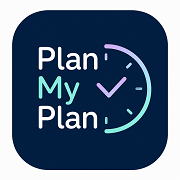
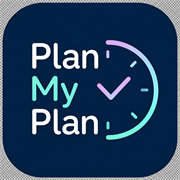
feat: apply Plan My Plan brand assets

diff --git a/src/ui/auth/auth-screen.tsx b/src/ui/auth/auth-screen.tsx
@@ -2,6 +2,7 @@ import { Ionicons } from '@expo/vector-icons';
 import { useState } from 'react';
 import {
   KeyboardAvoidingView,
+  Image,
   Platform,
   Pressable,
   ScrollView,
@@ -57,9 +58,12 @@ export function AuthScreen({
           keyboardShouldPersistTaps="handled"
           contentInsetAdjustmentBehavior="automatic">
           <View style={styles.card}>
-            <View style={styles.brandMark} accessibilityElementsHidden importantForAccessibility="no-hide-descendants">
-              <Text style={styles.brandMarkText}>P</Text>
-            </View>
+            <Image
+              accessibilityLabel="Логотип Plan My Plan"
+              resizeMode="contain"
+              source={require('../../../assets/plan-my-plan-auth-logo.png')}
+              style={styles.brandLogo}
+            />
             <Text accessibilityRole="header" style={styles.title}>Plan My Plan</Text>
             <Text style={styles.subtitle}>
               {isRegistration
@@ -199,20 +203,10 @@ const styles = StyleSheet.create({
     maxWidth: 440,
     gap: designTokens.space[12],
   },
-  brandMark: {
-    alignItems: 'center',
-    justifyContent: 'center',
-    width: 52,
-    height: 52,
-    borderRadius: designTokens.radius.card,
-    backgroundColor: designTokens.color.primary,
+  brandLogo: {
+    height: 88,
     marginBottom: designTokens.space[8],
-  },
-  brandMarkText: {
-    color: designTokens.color.text.inverse,
-    fontSize: 28,
-    lineHeight: 34,
-    fontWeight: designTokens.typography.weight.bold,
+    width: 88,
   },
   title: {
     color: designTokens.color.text.primary,

diff --git a/__tests__/ui/auth-screen.test.tsx b/__tests__/ui/auth-screen.test.tsx
@@ -19,6 +19,13 @@ describe('AuthScreen', () => {
     expect(view.getByLabelText('Забыли пароль?')).toBeOnTheScreen();
   });
 
+  test('uses the Plan My Plan artwork instead of a text brand mark', async () => {
+    const view = await render(<AuthScreen />);
+
+    expect(view.getByLabelText('Логотип Plan My Plan')).toBeOnTheScreen();
+    expect(view.queryByText('P')).toBeNull();
+  });
+
   test('does not expose the guest entry action in the default product mode', async () => {
     const view = await render(<AuthScreen onContinueWithoutAccount={jest.fn()} />);
 

diff --git a/__tests__/pwa-installation-assets.test.ts b/__tests__/pwa-installation-assets.test.ts
@@ -10,8 +10,8 @@ describe('PWA installation assets', () => {
       web?: { favicon?: string; output?: string };
     };
 
-    expect(expo.icon).toBe('./assets/plan-my-plan-512.png');
-    expect(expo.ios?.icon).toBe('./assets/plan-my-plan-512.png');
+    expect(expo.icon).toBe('./assets/plan-my-plan-app-icon.png');
+    expect(expo.ios?.icon).toBe('./assets/plan-my-plan-app-icon.png');
     expect(expo.web?.favicon).toBe('./public/favicon.png');
     expect(expo.web?.output).toBe('static');
 

diff --git a/src/ui/primitives/app-boot-screen.tsx b/src/ui/primitives/app-boot-screen.tsx
@@ -18,7 +18,7 @@ export function AppBootScreen({ message, progress }: AppBootScreenProps) {
     <View style={styles.screen}>
       <Image
         accessibilityLabel="Логотип Plan My Plan"
-        source={require('../../../assets/plan-my-plan-512.png')}
+        source={require('../../../assets/plan-my-plan-auth-logo.png')}
         style={styles.logo}
       />
       <Text style={styles.message}>{message}</Text>
